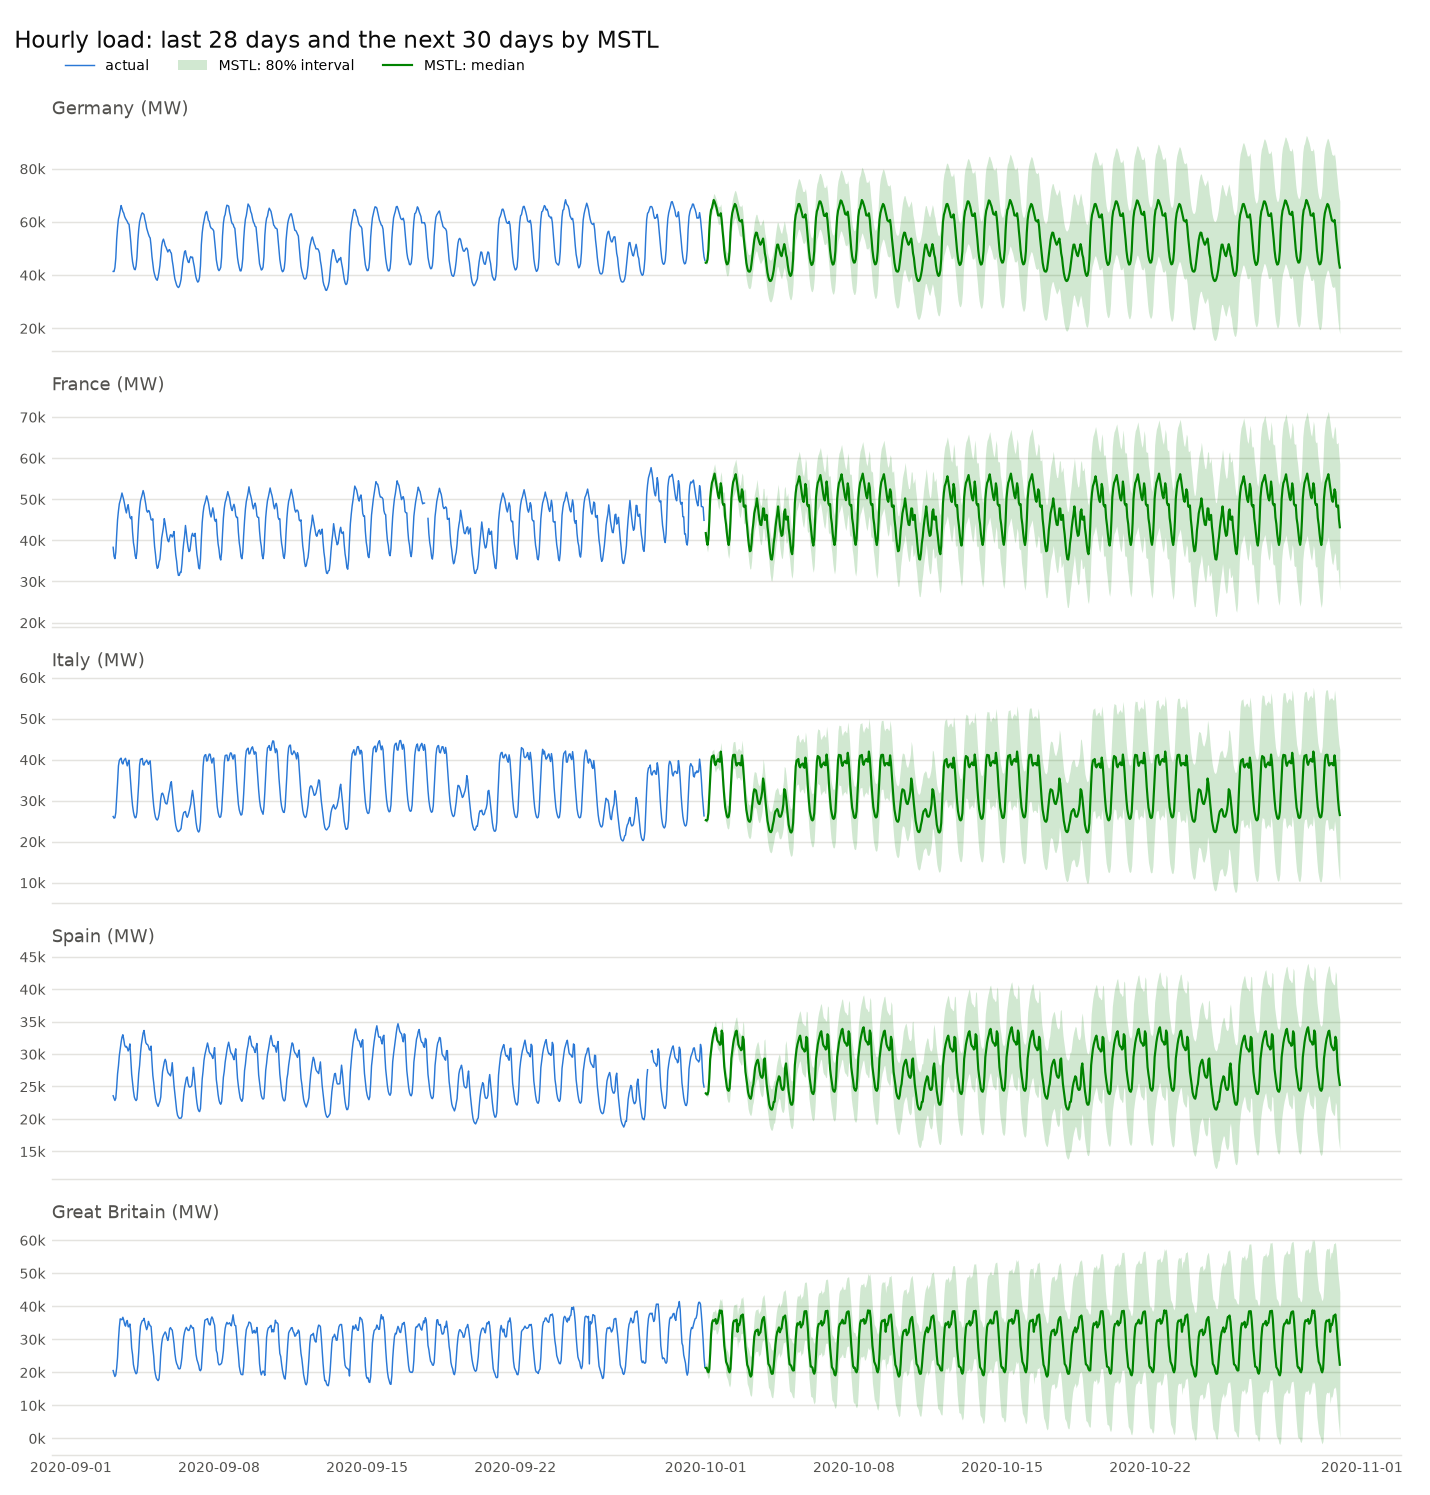
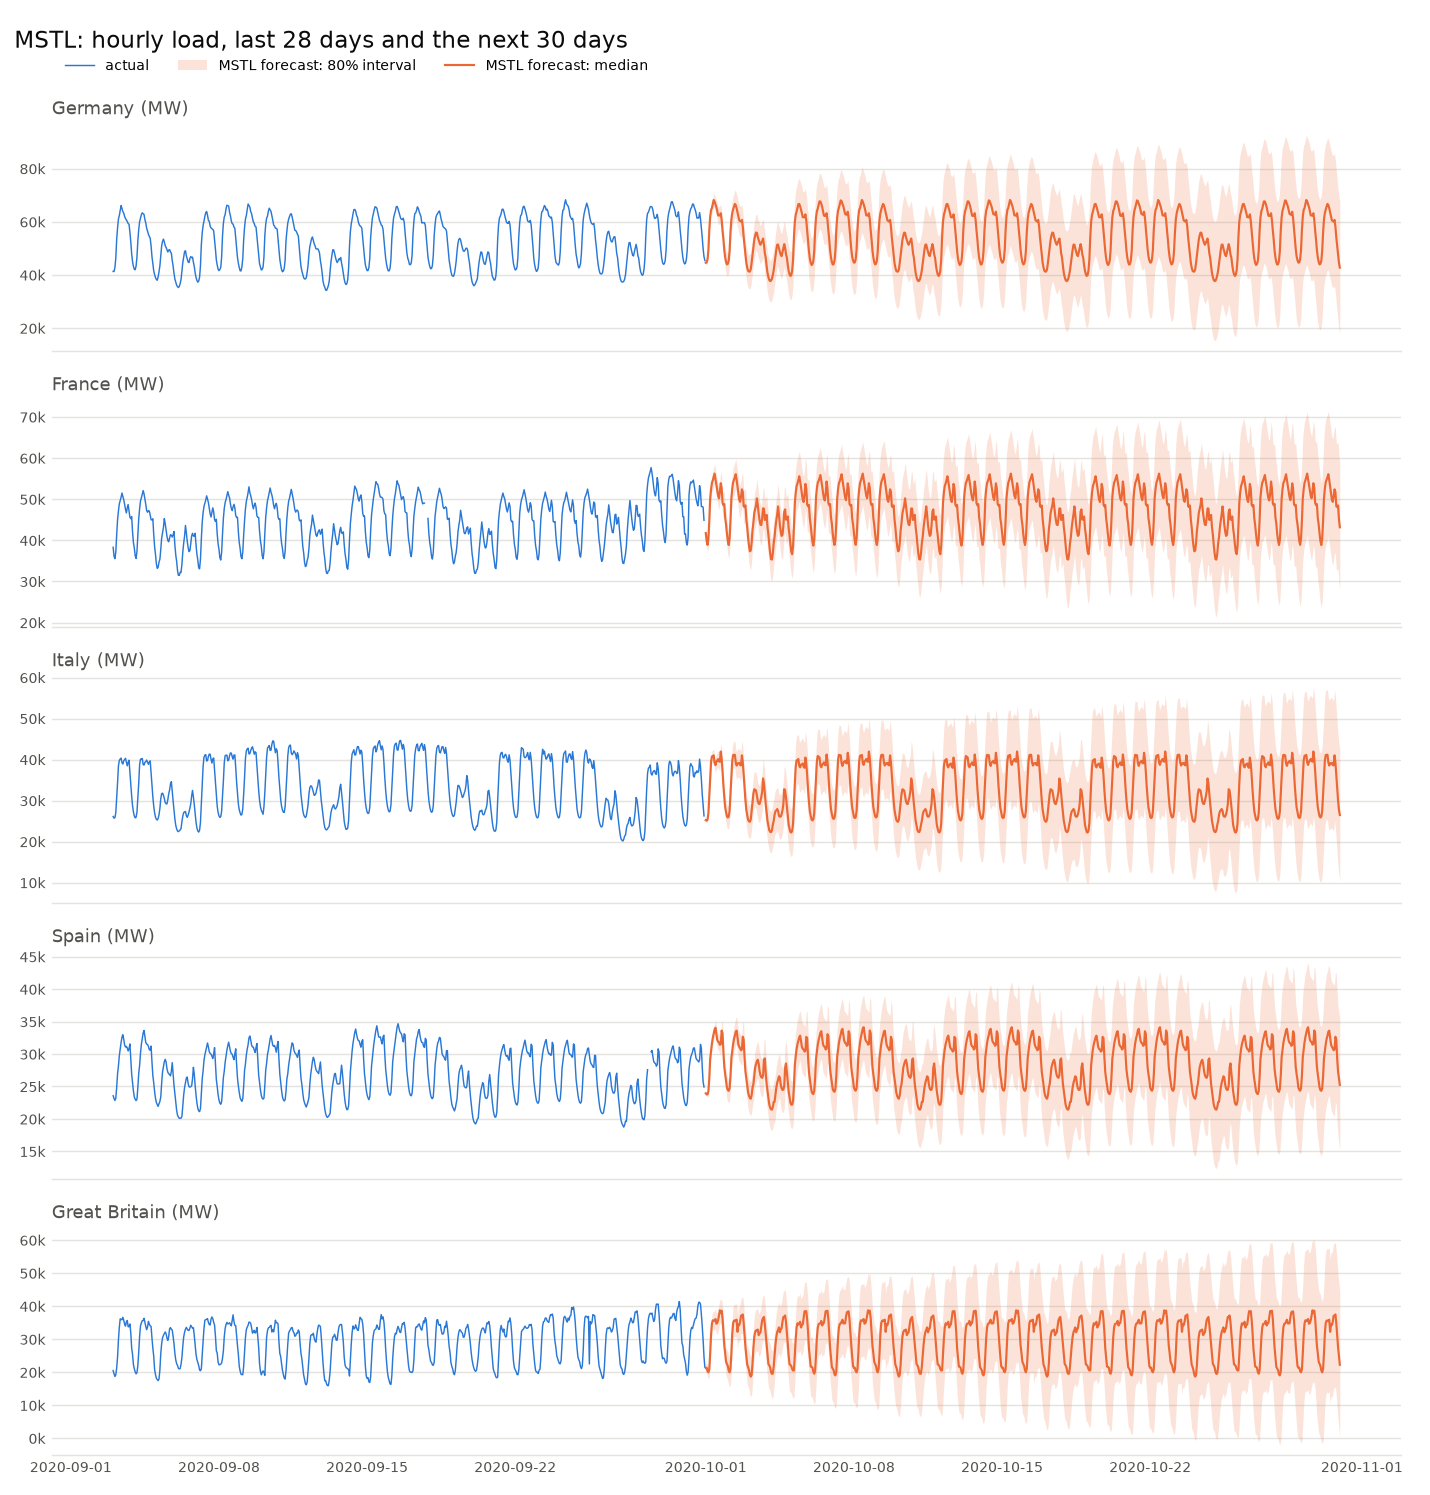
Show every model's anomaly plot in the docs; consistent chart colours
Add the per-model anomaly plot (daily energy, actual vs expected, with
anomalous days) for all six models to docs/06-comparing-models.md. For
TimesFM 3, which has no 1%/99% quantiles, compare now writes the same
plot without anomaly dots and with a note in the title.

In every single-model chart the forecast is now orange and the actual
blue, and the title and legend name the model. Charts with several
models keep one colour per model. Update the CPU timings in the README
and docs to the new run; all result CSVs are unchanged.

diff --git a/plots.py b/plots.py
@@ -11,9 +11,11 @@ import pandas as pd
 from data import country_name
 from forecasting import BASELINES, QuantileForecast
 
+# In a chart of one model: blue is always the actual value, orange is always the forecast.
 ACTUAL = "#2a78d6"
 FORECAST = "#eb6834"
 # One fixed colour per model, so that a model has the same colour in every chart.
+# In a chart of several models, each model needs its own colour (the actual value stays blue).
 # The classical baselines get the next colours and a dashed line, so that they stand apart.
 MODEL_COLORS = {"Timestral": "#eb6834", "Chronos-2": "#6250d6", "TimesFM 3": "#1baf7a",
                 "Seasonal naive": "#eda100", "ETS": "#e87ba4", "MSTL": "#008300"}
@@ -100,24 +102,30 @@ def plot_forecast(history: pd.DataFrame, fc: QuantileForecast, path: Path, label
                   show_days: int = 28):
     recent = history.iloc[-show_days * 24:]
     fig, axes = _panels(list(history.columns),
-                        f"Hourly load: last {show_days} days and the next {len(fc.median) // 24} days by {label}", "MW")
+                        f"{label}: hourly load, last {show_days} days and the next {len(fc.median) // 24} days", "MW")
     for ax, code in zip(axes, history.columns):
         ax.plot(recent.index, recent[code], color=ACTUAL, linewidth=0.8, label="actual")
-        _band(ax, fc, code, label, model_color(label))
+        _band(ax, fc, code, f"{label} forecast")
     _save(fig, axes, path)
 
 
-def plot_anomalies(actual: pd.DataFrame, expected: pd.DataFrame, days: pd.DataFrame, lockdowns: dict[str, str],
-                   horizon: int, path: Path, label: str = "Timestral"):
+def plot_anomalies(actual: pd.DataFrame, expected: pd.DataFrame, days: pd.DataFrame | None,
+                   lockdowns: dict[str, str], horizon: int, path: Path, label: str = "Timestral",
+                   note: str = "red = anomalous day"):
+    """Daily energy, actual and expected, with a red dot on each anomalous day.
+
+    `days` is None for a model that cannot do the anomaly check: then the chart has no dots,
+    and `note` says why.
+    """
     ahead = {24: "day-ahead", 168: "week-ahead"}.get(horizon, f"{horizon}-hours-ahead")
-    fig, axes = _panels(list(actual.columns), f"Daily energy vs the {ahead} forecast by {label}; red = anomalous day",
-                        "MWh")
+    fig, axes = _panels(list(actual.columns), f"{label}: daily energy vs the {ahead} forecast; {note}", "MWh")
     for ax, code in zip(axes, actual.columns):
-        ax.plot(expected.index, expected[code], color=model_color(label), linewidth=1.2, label="expected (forecast)")
+        ax.plot(expected.index, expected[code], color=FORECAST, linewidth=1.2, label=f"{label} forecast (expected)")
         ax.plot(actual.index, actual[code], color=ACTUAL, linewidth=1, label="actual")
-        hits = days[days["country"] == code]
-        ax.scatter(hits["day"], hits["actual MWh"], s=24, color=ANOMALY, edgecolor="white", linewidth=1, zorder=3,
-                   label="anomalous day")
+        if days is not None:
+            hits = days[days["country"] == code]
+            ax.scatter(hits["day"], hits["actual MWh"], s=24, color=ANOMALY, edgecolor="white", linewidth=1,
+                       zorder=3, label="anomalous day")
         if code in lockdowns:
             ax.axvline(pd.Timestamp(lockdowns[code], tz="UTC"), color=INK, linewidth=0.8, linestyle=(0, (4, 3)),
                        label="lockdown starts")

diff --git a/main.py b/main.py
@@ -138,6 +138,15 @@ def write_anomalies(model: Model, load: pd.DataFrame, fc: QuantileForecast, args
     return days, daily, name
 
 
+def write_expected_only(model: Model, load: pd.DataFrame, fc: QuantileForecast, args: argparse.Namespace) -> str:
+    """The anomaly chart for a model without a 1% and 99% quantile: actual and expected energy, no dots."""
+    actual_day = load.loc[fc.median.index].resample("D").sum()
+    name = f"anomalies-{args.horizon}h{_suffix(model)}"
+    plot_anomalies(actual_day, fc.mean.resample("D").sum(), None, LOCKDOWNS, args.horizon, OUTPUT / f"{name}.png",
+                   label=model.label, note="no red dots: no 1% and 99% quantiles, so no anomaly check")
+    return name
+
+
 def can_find_anomalies(model: Model) -> bool:
     return model.has_levels(0.01, 0.99)
 
@@ -175,6 +184,8 @@ def run_compare(power, args: argparse.Namespace):
         result["weekly"] = weekly_wql(load, result["week"], NORMAL_UNTIL, args.horizon)
         if can_find_anomalies(model):
             result["days"], result["daily"], _ = write_anomalies(model, load, result["week"], args)
+        else:
+            write_expected_only(model, load, result["week"], args)
         results[model.label] = result
         del model  # free the memory before the next model loads
     labels = list(results)

diff --git a/docs/06-comparing-models.md b/docs/06-comparing-models.md
@@ -387,7 +387,7 @@ From `output/compare-summary.csv`:
 | forecasting | hours in the 80% range (best: 80) | **81.1** | 77.1 | 76.7 | 83.1 | 78.2 | 89.8 | Timestral |
 | forecasting | width of the 80% range % (lower is better) | 13.95 | 13.07 | **12.29** | 22.44 | 89.53 | 29.34 | TimesFM 3 |
 | forecasting | is the WQL winner clearly better than the second? (Diebold–Mariano) | second | | best | | | | **no clear winner** (p = 0.91) |
-| cost | seconds for the 260 week-ahead forecasts (CPU) | 167 | 40 | 50 | **4** | 113 | 37 | Seasonal naive |
+| cost | seconds for the 260 week-ahead forecasts (CPU) | 95 | 26 | 41 | **4** | 87 | 32 | Seasonal naive |
 | anomalies | **hours outside 1%-99% before the pandemic %** (main score, best: 2) | **1.8** | 3.1 | not possible | 5.9 | 5.1 | 3.8 | Timestral |
 | anomalies | anomalous days before the pandemic (fewer = fewer false alerts) | **20** | 35 | not possible | 62 | 72 | 38 | Timestral |
 | anomalies | lockdown days found, first 14 days (more is better) | 6 | 5 | not possible | 6 | 1 | **7** | MSTL |
@@ -408,8 +408,8 @@ Chronos-2's range is too narrow (3.1%, 35 alerts), and the baselines' ranges are
 but with almost twice as many alerts on usual days. TimesFM 3 cannot do this check.
 
 **Speed: seasonal naive is the fastest** (it only copies the last week), and of the TSFMs,
-Chronos-2 is the fastest. The times change between runs: in an earlier run, Timestral took
-100 seconds, not 167.
+Chronos-2 is the fastest. The times change between runs on the same laptop: in another run,
+Timestral took 167 seconds, not 95.
 
 ## 1. Forecasting
 
@@ -596,8 +596,8 @@ Each mark is one anomalous day. The two shaded periods tell you what a mark mean
 - The label of each row gives these two counts for that model and country, for example
   "16 usual · 1 lockdown" for Chronos-2 in Italy.
 
-The anomaly chart of each model, with the daily energy, is in `output/anomalies-168h.png`
-(Timestral) and `output/anomalies-168h-<model>.png` for the other models.
+The anomaly plot of each model, with the daily energy, is in
+[The anomaly plot of each model](#the-anomaly-plot-of-each-model) below.
 
 - **ETS flags almost every Monday** in Germany and Italy: the regular row of marks, all
   of them "spikes". Each forecast is made at Sunday midnight. A flat forecast continues
@@ -632,6 +632,52 @@ a lockdown alert from them is less informative. Both models find only the
 first days of each lockdown, because of the procedure: after one week, the lockdown is in
 the history, and the models expect the low demand. See
 [04-anomaly-detection.md](04-anomaly-detection.md).
+
+### The anomaly plot of each model
+
+The same plot as in the README, for each model: the actual daily energy (blue), the energy
+that the model expected (the sum of its hourly mean forecasts, in orange) and a
+red dot on each anomalous day. The dashed line is the start of the lockdown. All six plots
+use the same week-ahead forecasts as the tables above.
+
+**Timestral.** The expected energy follows the actual energy closely on usual days. The
+red dots are on the main events: Christmas, the start of the lockdowns, the reopening of
+France in May and the August closures in Italy.
+
+![anomalies Timestral](../output/anomalies-168h.png)
+
+**Chronos-2.** Almost the same expected energy as Timestral, but more red dots, because its
+1%-99% range is narrower: for example in Italy in late October and early January.
+
+![anomalies Chronos-2](../output/anomalies-168h-chronos-2.png)
+
+**TimesFM 3.** There are no red dots: TimesFM 3 has no 1% and 99% quantiles, so it cannot do
+the anomaly check. The plot still shows its expected energy. It follows the actual energy as
+closely as the other TSFMs, and after each lockdown starts it is too high for one to two
+weeks, like the others. The model sees the same surprises, but without the tails it cannot
+say which are improbable.
+
+![anomalies TimesFM 3](../output/anomalies-168h-timesfm-3.png)
+
+**Seasonal naive.** The expected energy is the actual energy of the week before, so the
+expected line is the blue line moved one week to the right. After a holiday or an unusual
+week, the next week's expectation repeats it. Thus it has many red dots on usual days.
+
+![anomalies seasonal naive](../output/anomalies-168h-seasonal-naive.png)
+
+**ETS.** The expected energy is a series of flat steps: one level for each week, far below
+the weekday demand in Germany, Italy and Spain. This is the flat ETS(A,N,N) forecast
+explained in [08-classical-baselines.md](08-classical-baselines.md#ets-exponential-smoothing).
+The regular red dots are Mondays. In Italy from April to June, AutoETS chose other forms,
+and the expected line goes up and down in each week.
+
+![anomalies ETS](../output/anomalies-168h-ets.png)
+
+**MSTL.** The expected energy has the correct weekly shape, but it does not know holidays:
+at Christmas it expects a usual week, and the actual energy is far below it. It also has
+many red dots in Italy in August, when the closures change the weekly pattern.
+
+![anomalies MSTL](../output/anomalies-168h-mstl.png)
 
 ## Models that we did not add
 

diff --git a/docs/08-classical-baselines.md b/docs/08-classical-baselines.md
@@ -212,7 +212,7 @@ as if they were certain. Over 168 hours, the ETS range grows (see above), so the
 is wide.
 
 **Strengths:** it knows both cycles, it is robust to one unusual week (the cycles are
-smoothed over the 12 weeks), and it is fast (37 seconds for all 260 forecasts).
+smoothed over the 12 weeks), and it is fast (about 30 seconds for all 260 forecasts).
 
 **Weaknesses:** it assumes that the parts are **added** and that each cycle has a **fixed
 shape** in the near future. In reality the daily shape changes with the weekday and the
@@ -232,7 +232,7 @@ check over one year. All values from `main.py compare`:
 | Width of the 80% range % | 22.4 | 89.5 | 29.3 | 12.3 (TimesFM 3) |
 | Hours outside 1%-99% before the pandemic (target 2) | 5.9 | 5.1 | 3.8 | 1.8 (Timestral) |
 | Anomalous days before the pandemic | 62 | 72 | 38 | 20 (Timestral) |
-| Seconds for 260 forecasts (CPU) | 4 | 113 | 37 | 40-167 |
+| Seconds for 260 forecasts (CPU) | 4 | 87 | 32 | 26-95 |
 
 What the results show:
 

diff --git a/README.md b/README.md
@@ -227,7 +227,7 @@ table names the better model for each score.
 | forecasting | Error of the median (MAPE) % | 4.24 | 4.38 | **4.19** | 6.02 | 17.75 | 5.47 | TimesFM 3 |
 | forecasting | Hours in the 80% range, best: 80 | **81.1** | 77.1 | 76.7 | 83.1 | 78.2 | 89.8 | Timestral |
 | forecasting | Is the WQL winner clearly better than the second? | | | | | | | **no** (p = 0.91) |
-| cost | Seconds for the 260 forecasts on a CPU | 167 | 40 | 50 | **4** | 113 | 37 | Seasonal naive |
+| cost | Seconds for the 260 forecasts on a CPU | 95 | 26 | 41 | **4** | 87 | 32 | Seasonal naive |
 | anomalies | **Hours outside 1%-99% before the pandemic %**, main score, best: 2 | **1.8** | 3.1 | not possible | 5.9 | 5.1 | 3.8 | Timestral |
 | anomalies | Anomalous days before the pandemic, fewer is better | **20** | 35 | not possible | 62 | 72 | 38 | Timestral |
 | anomalies | Lockdown days found in the first 14 days, more is better | 6 | 5 | not possible | 6 | 1 | **7** | MSTL |
